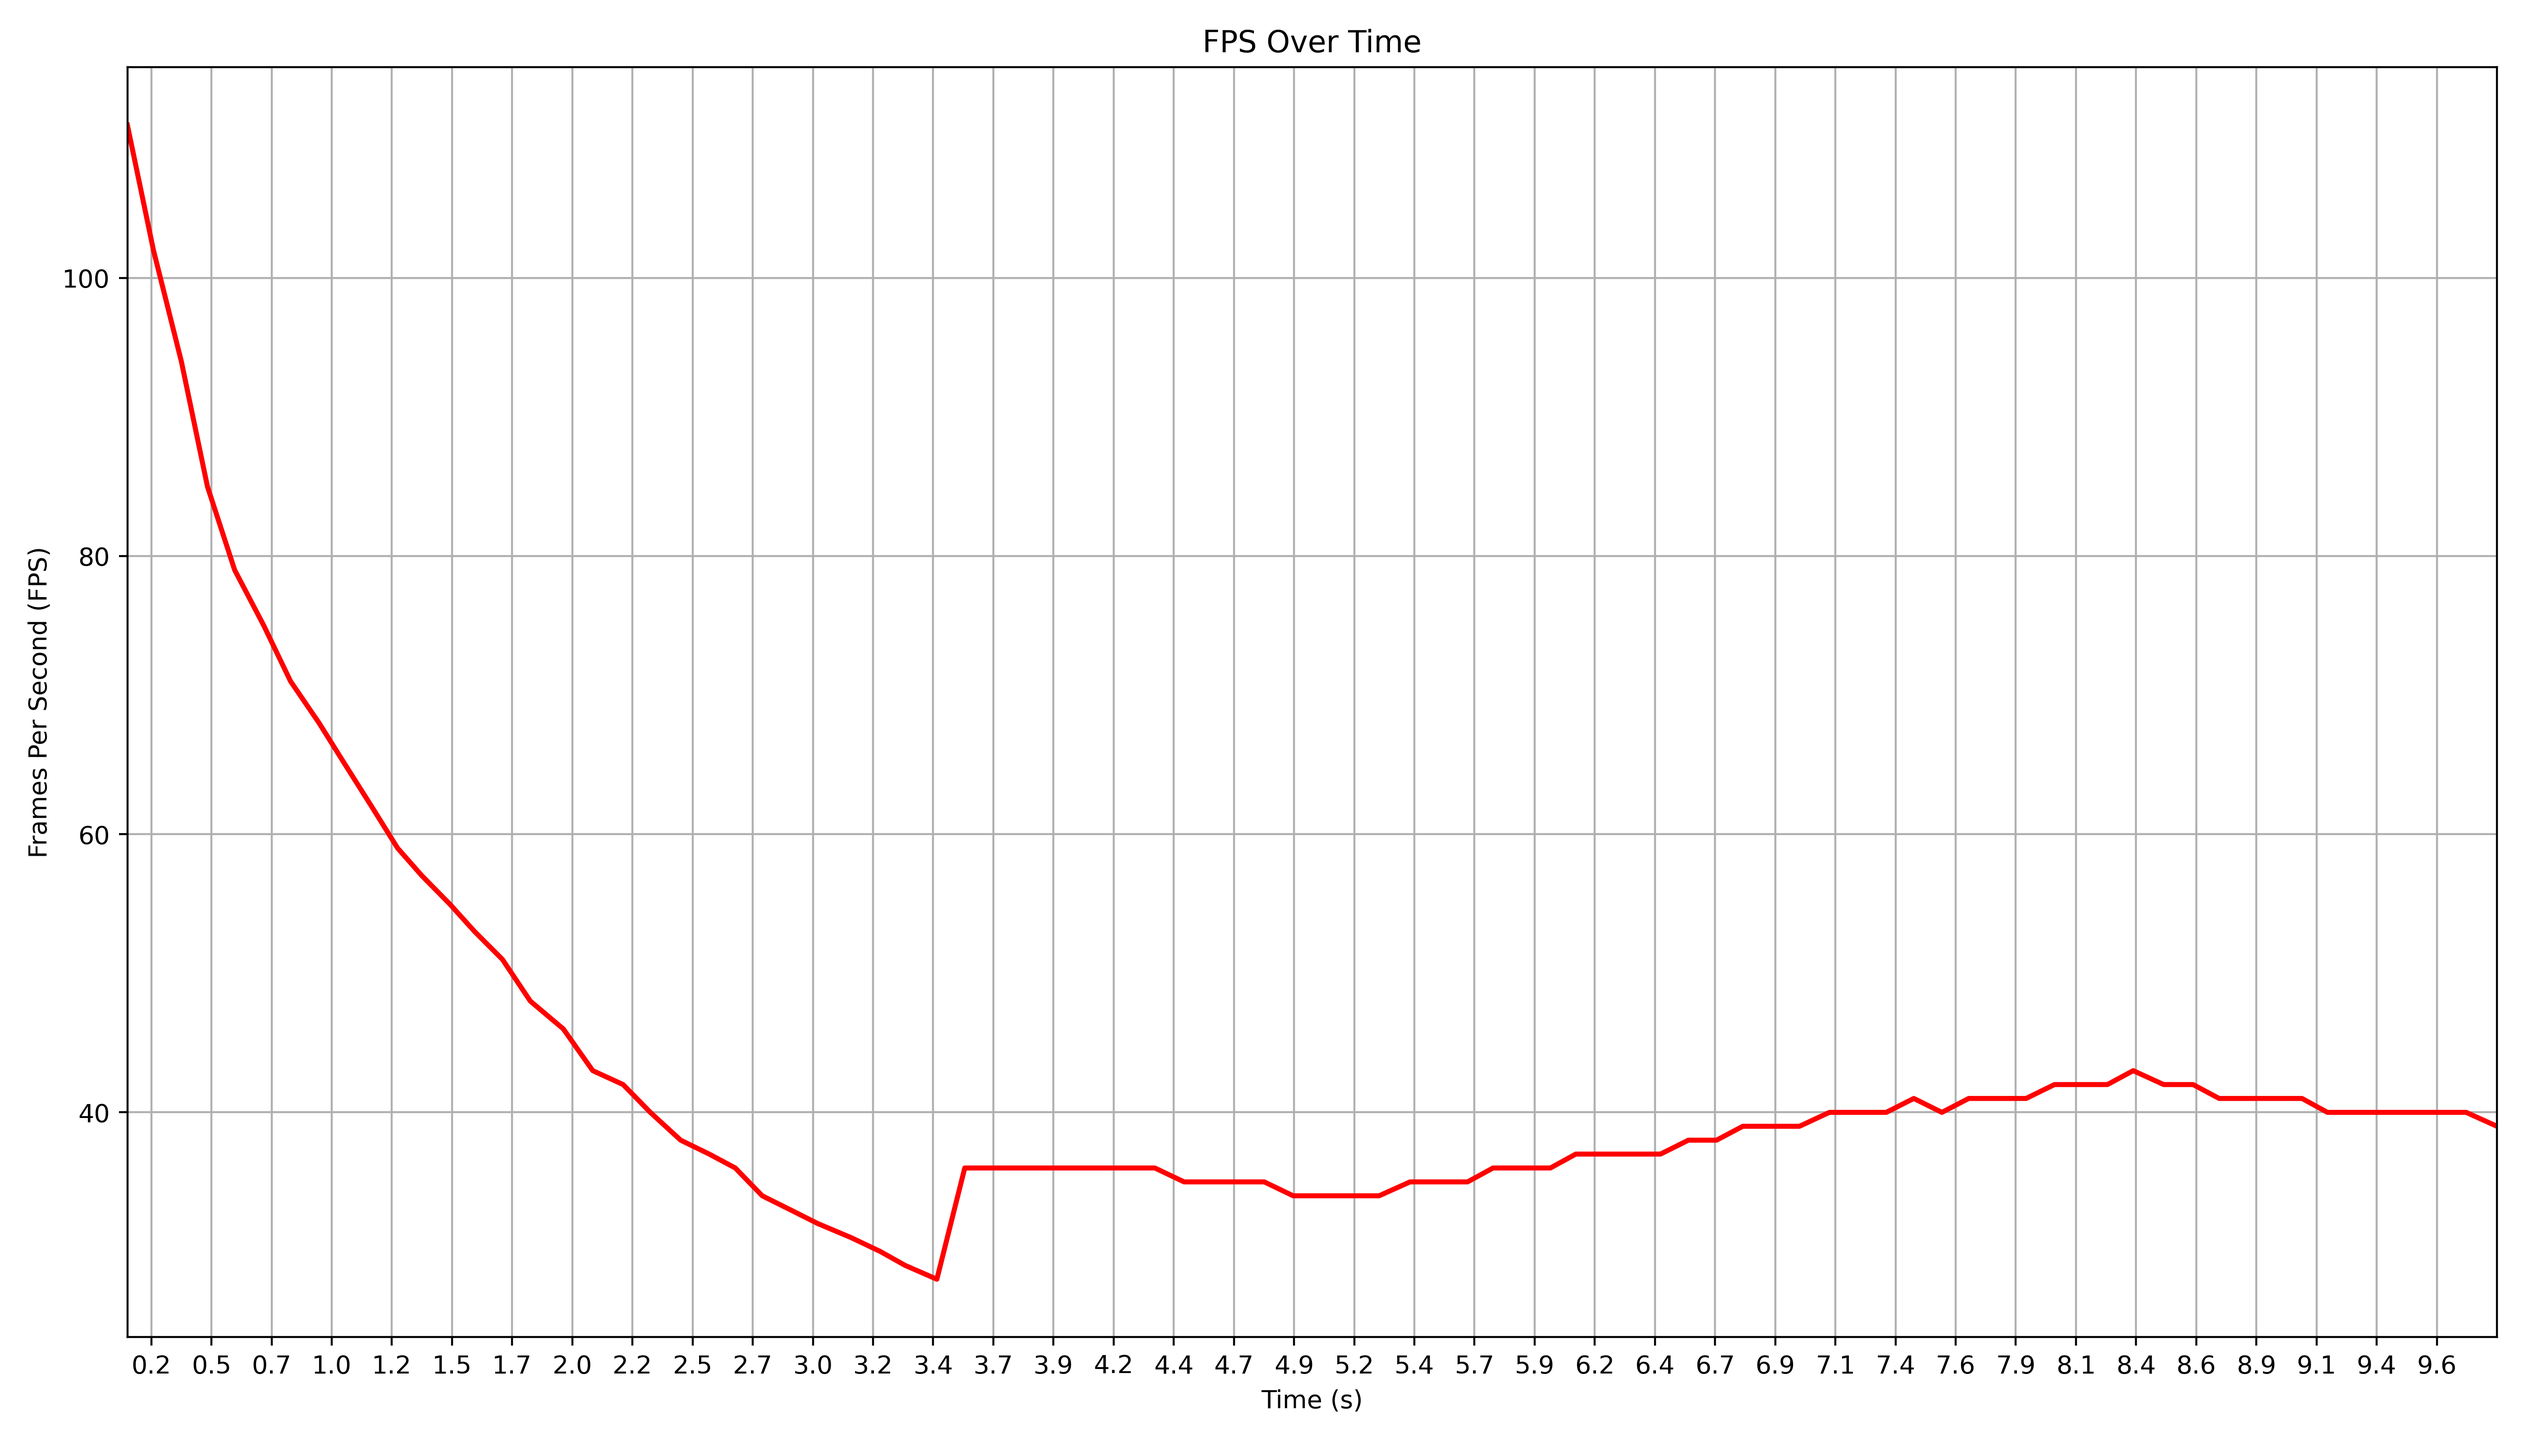
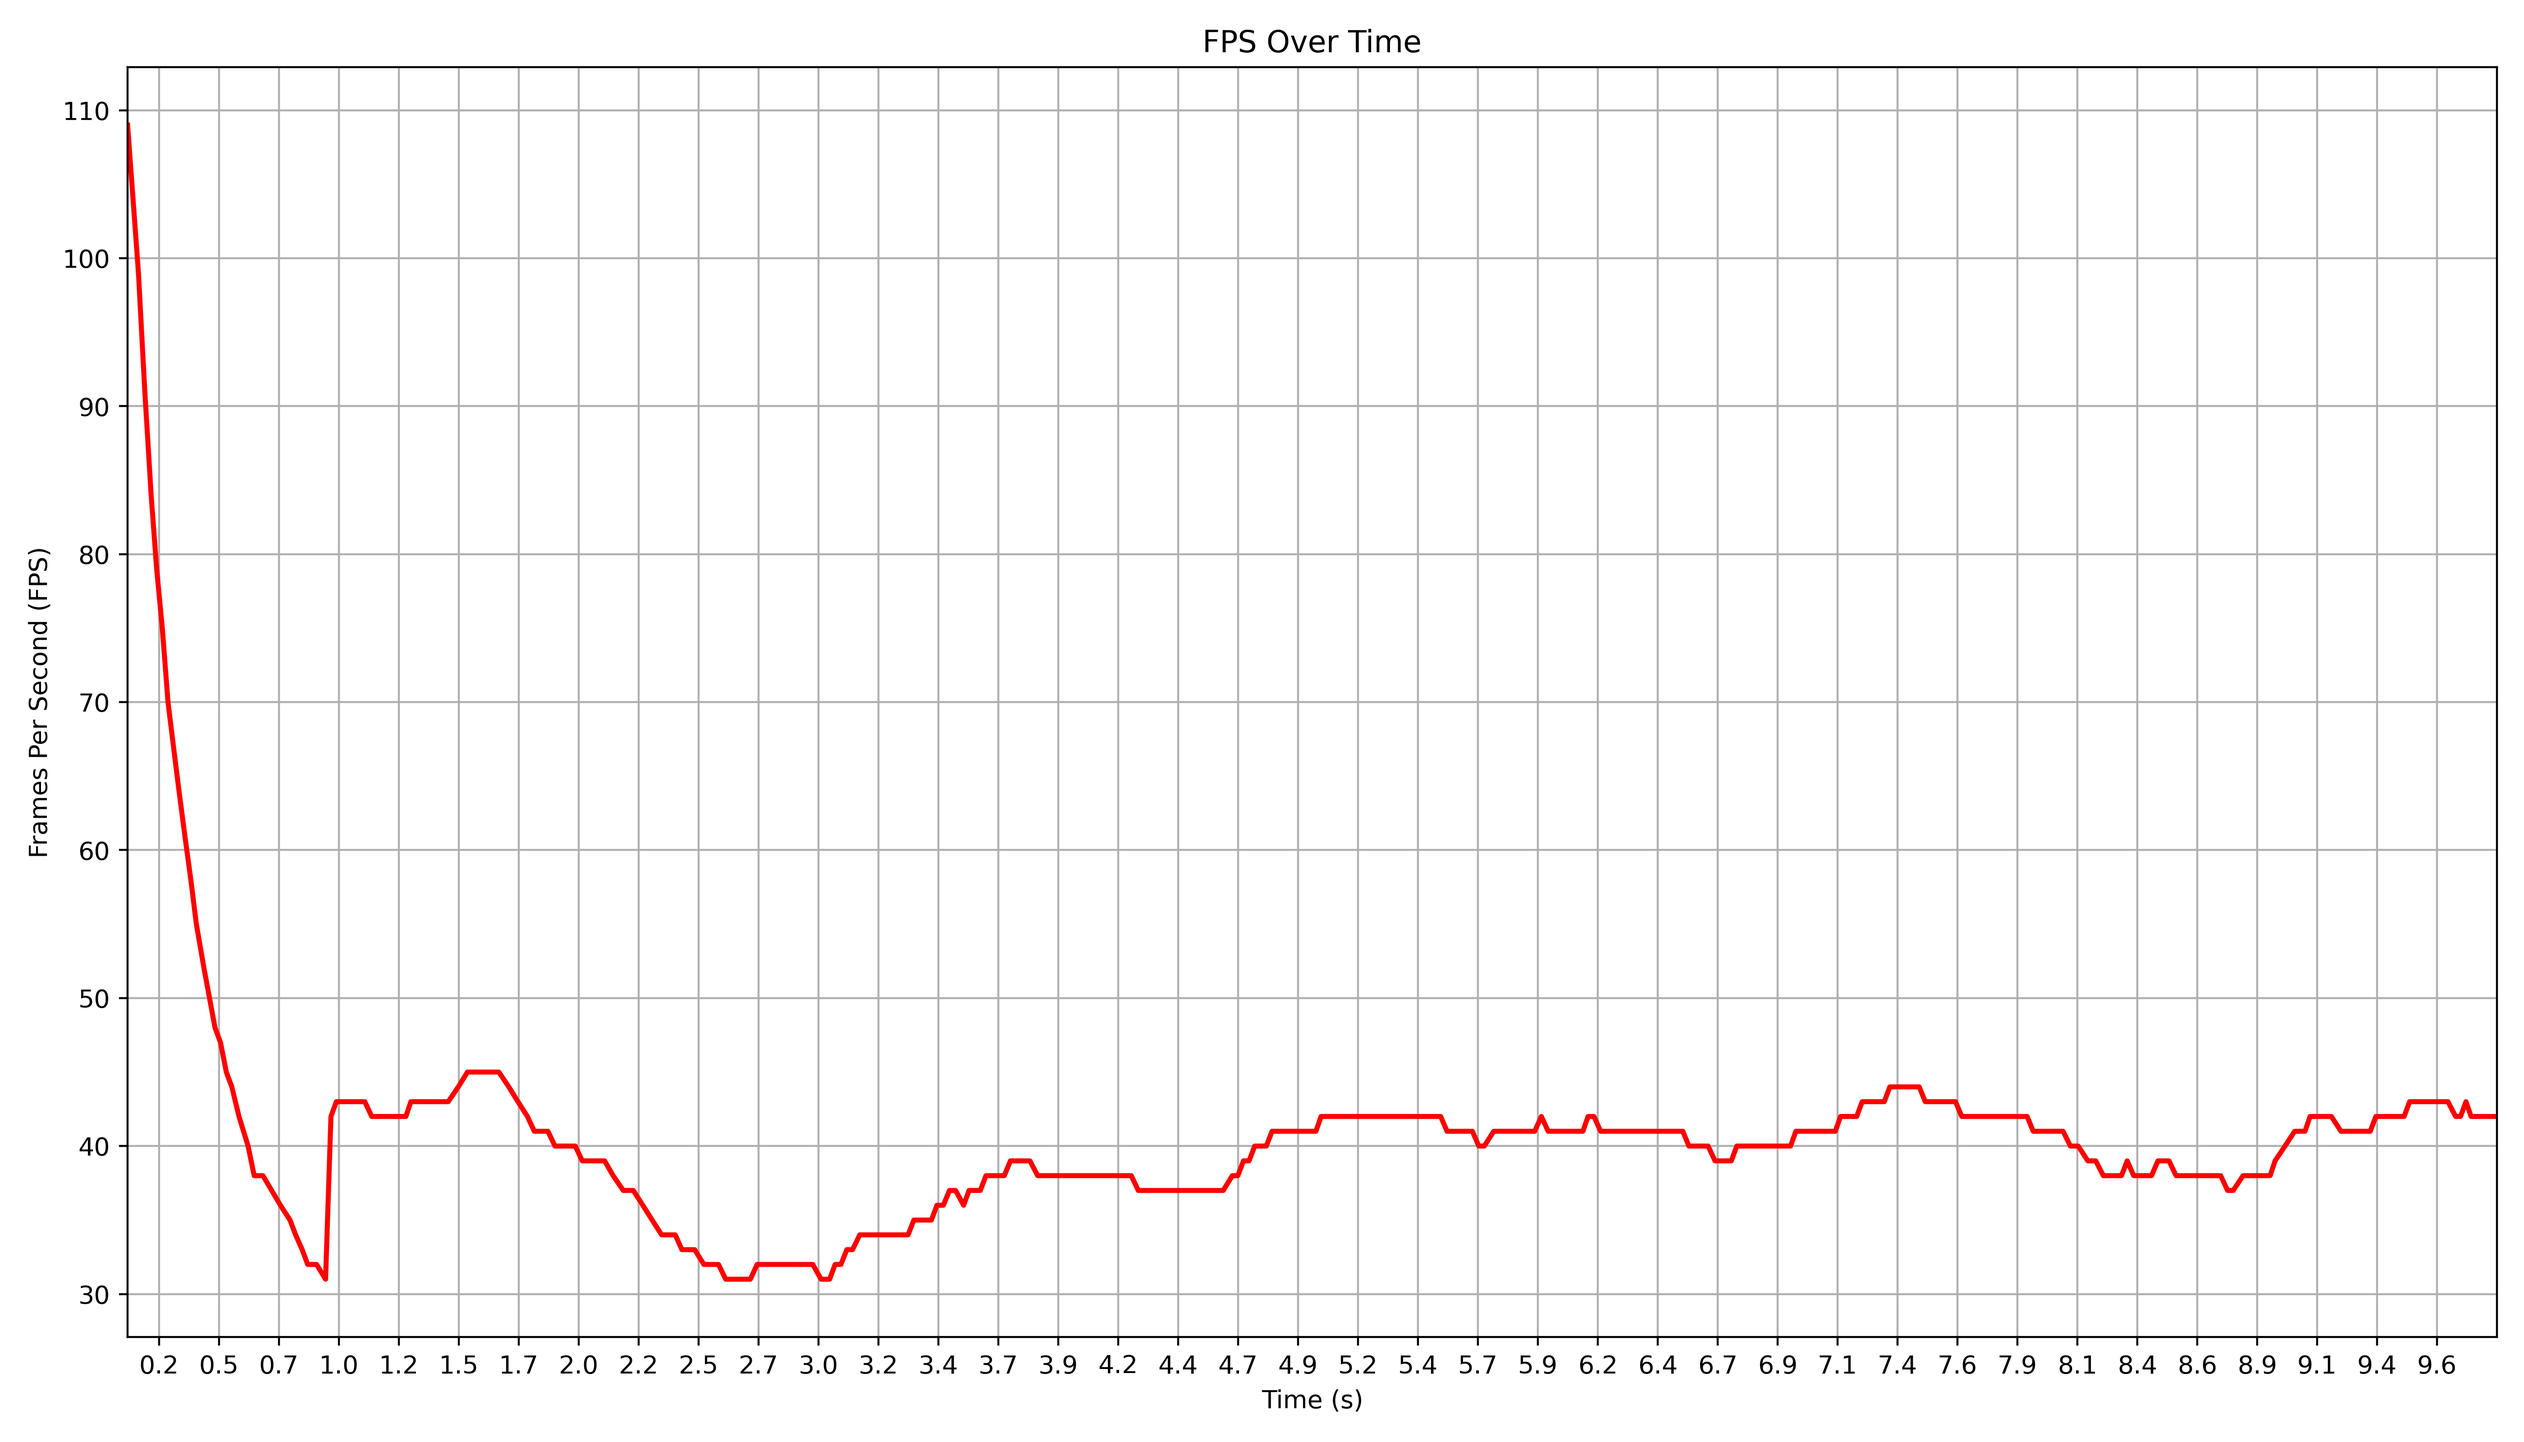
Update TIME_BETWEEN_CAPTURES frequency

diff --git a/benchmarks/benchmarker.py b/benchmarks/benchmarker.py
@@ -6,7 +6,7 @@ import platform
 import wmi
 import extro
 
-TIME_BETWEEN_CAPTURES: float = 0.1
+TIME_BETWEEN_CAPTURES: float = 0.02
 X_TICKS: range = range(40)
 
 started_capturing_at: float = 0

diff --git a/benchmarks/physics/report.md b/benchmarks/physics/report.md
@@ -1,6 +1,6 @@
 # Physics Benchmark Report
 
-This benchmark ran for 9.85 seconds and captured 86 data points.
+This benchmark ran for 9.85 seconds and captured 362 data points.
 
 ### Benchmark Information
 
@@ -9,17 +9,17 @@ This benchmark ran for 9.85 seconds and captured 86 data points.
 ### Average System Response Times
 
 
-Average FPS: 43.86
+Average FPS: 40.82
 
 - timing: 0.01 ms
 - input: 0.02 ms
-- transform: 5.50 ms
+- transform: 5.45 ms
 - ui: 0.00 ms
-- collision: 9.70 ms
-- physics: 8.36 ms
+- collision: 9.65 ms
+- physics: 7.82 ms
 - animation: 0.02 ms
-- total: 25.29 ms
-- render: 1.70 ms
+- total: 24.76 ms
+- render: 1.79 ms
 - audio: 0.00 ms
 
 ### System Specifications
